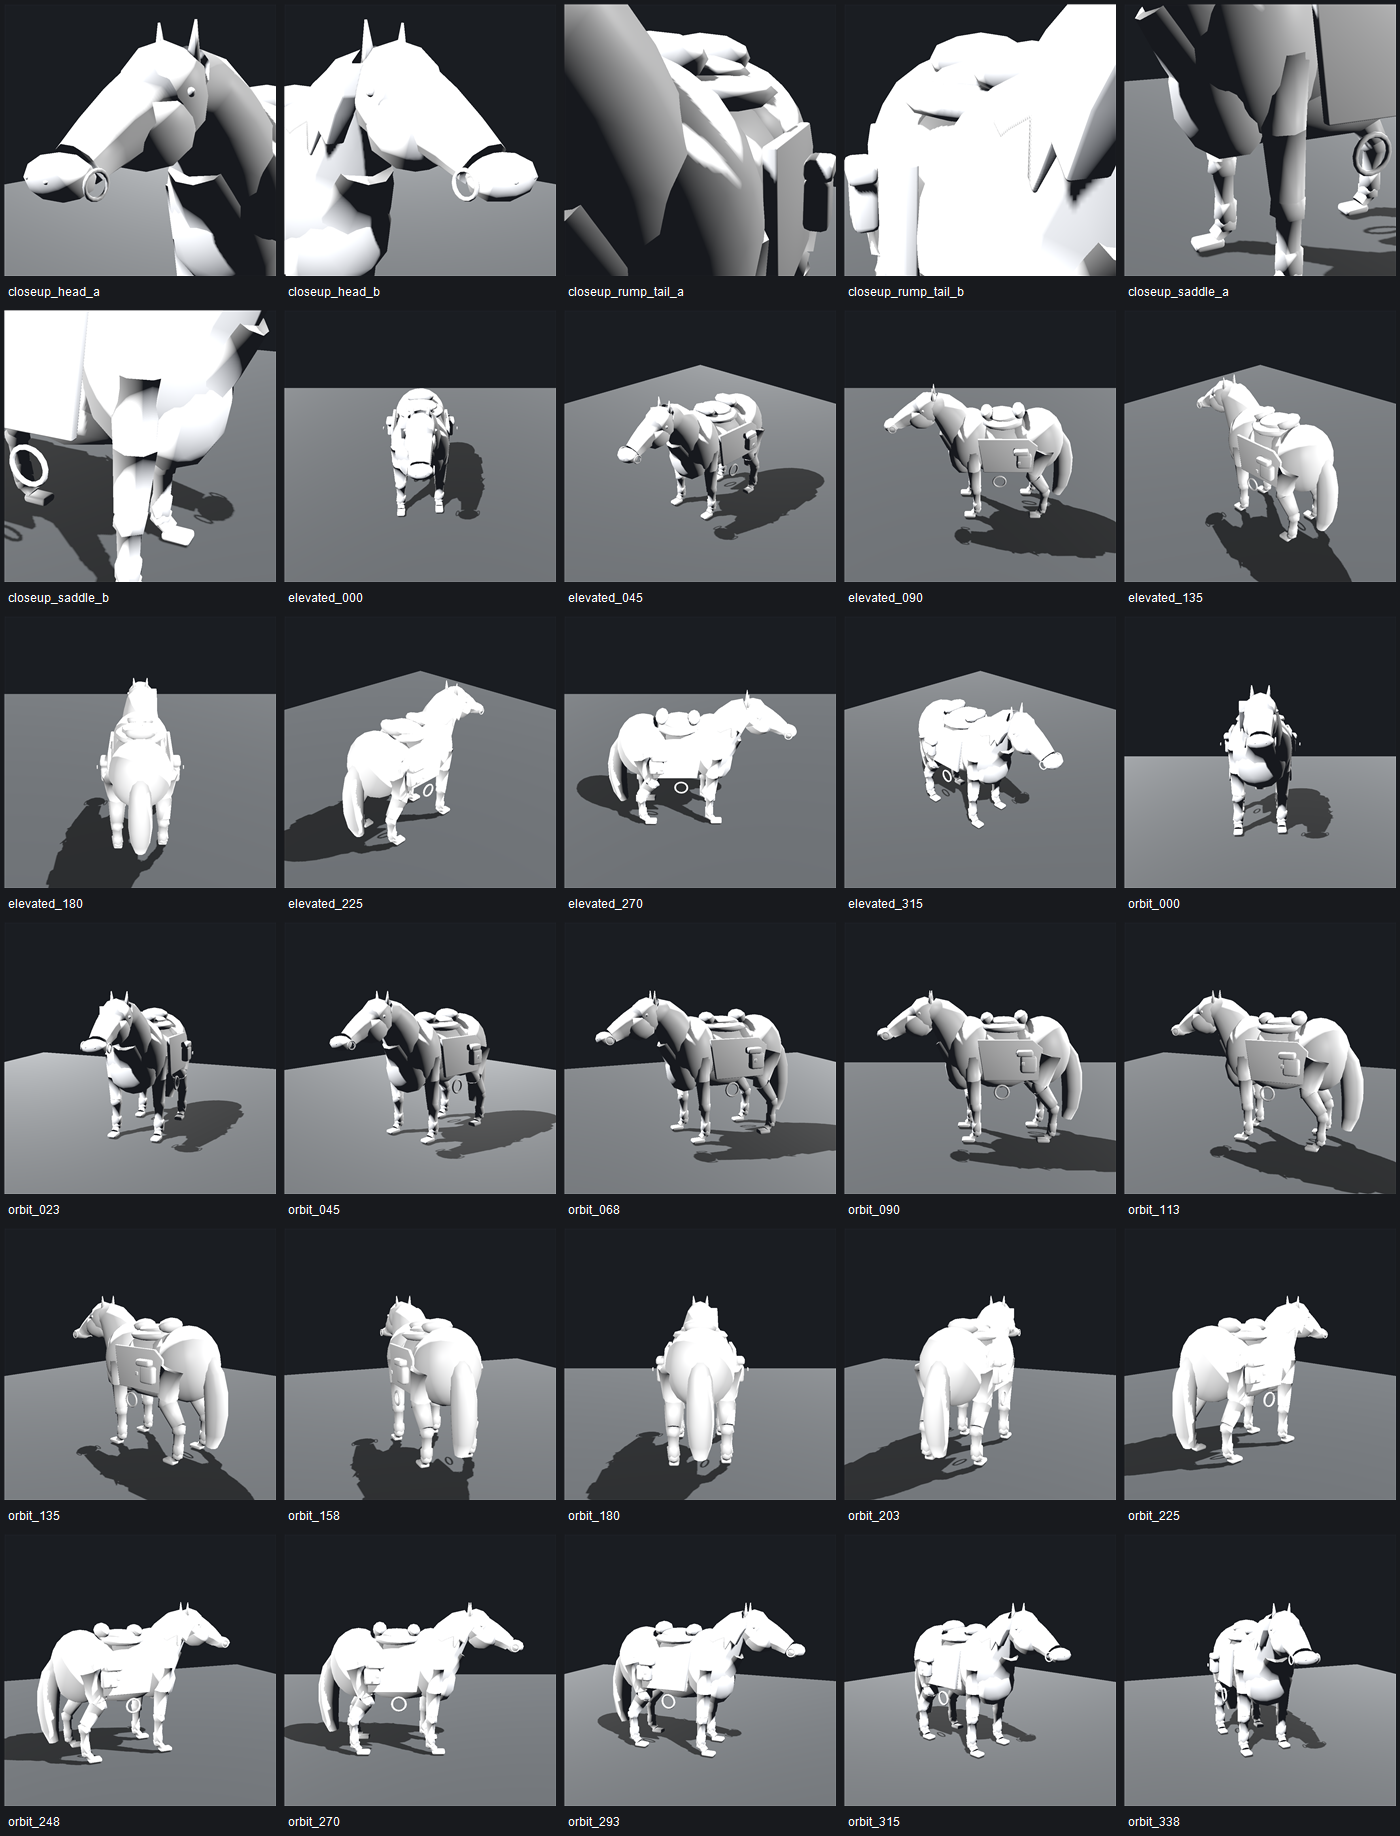
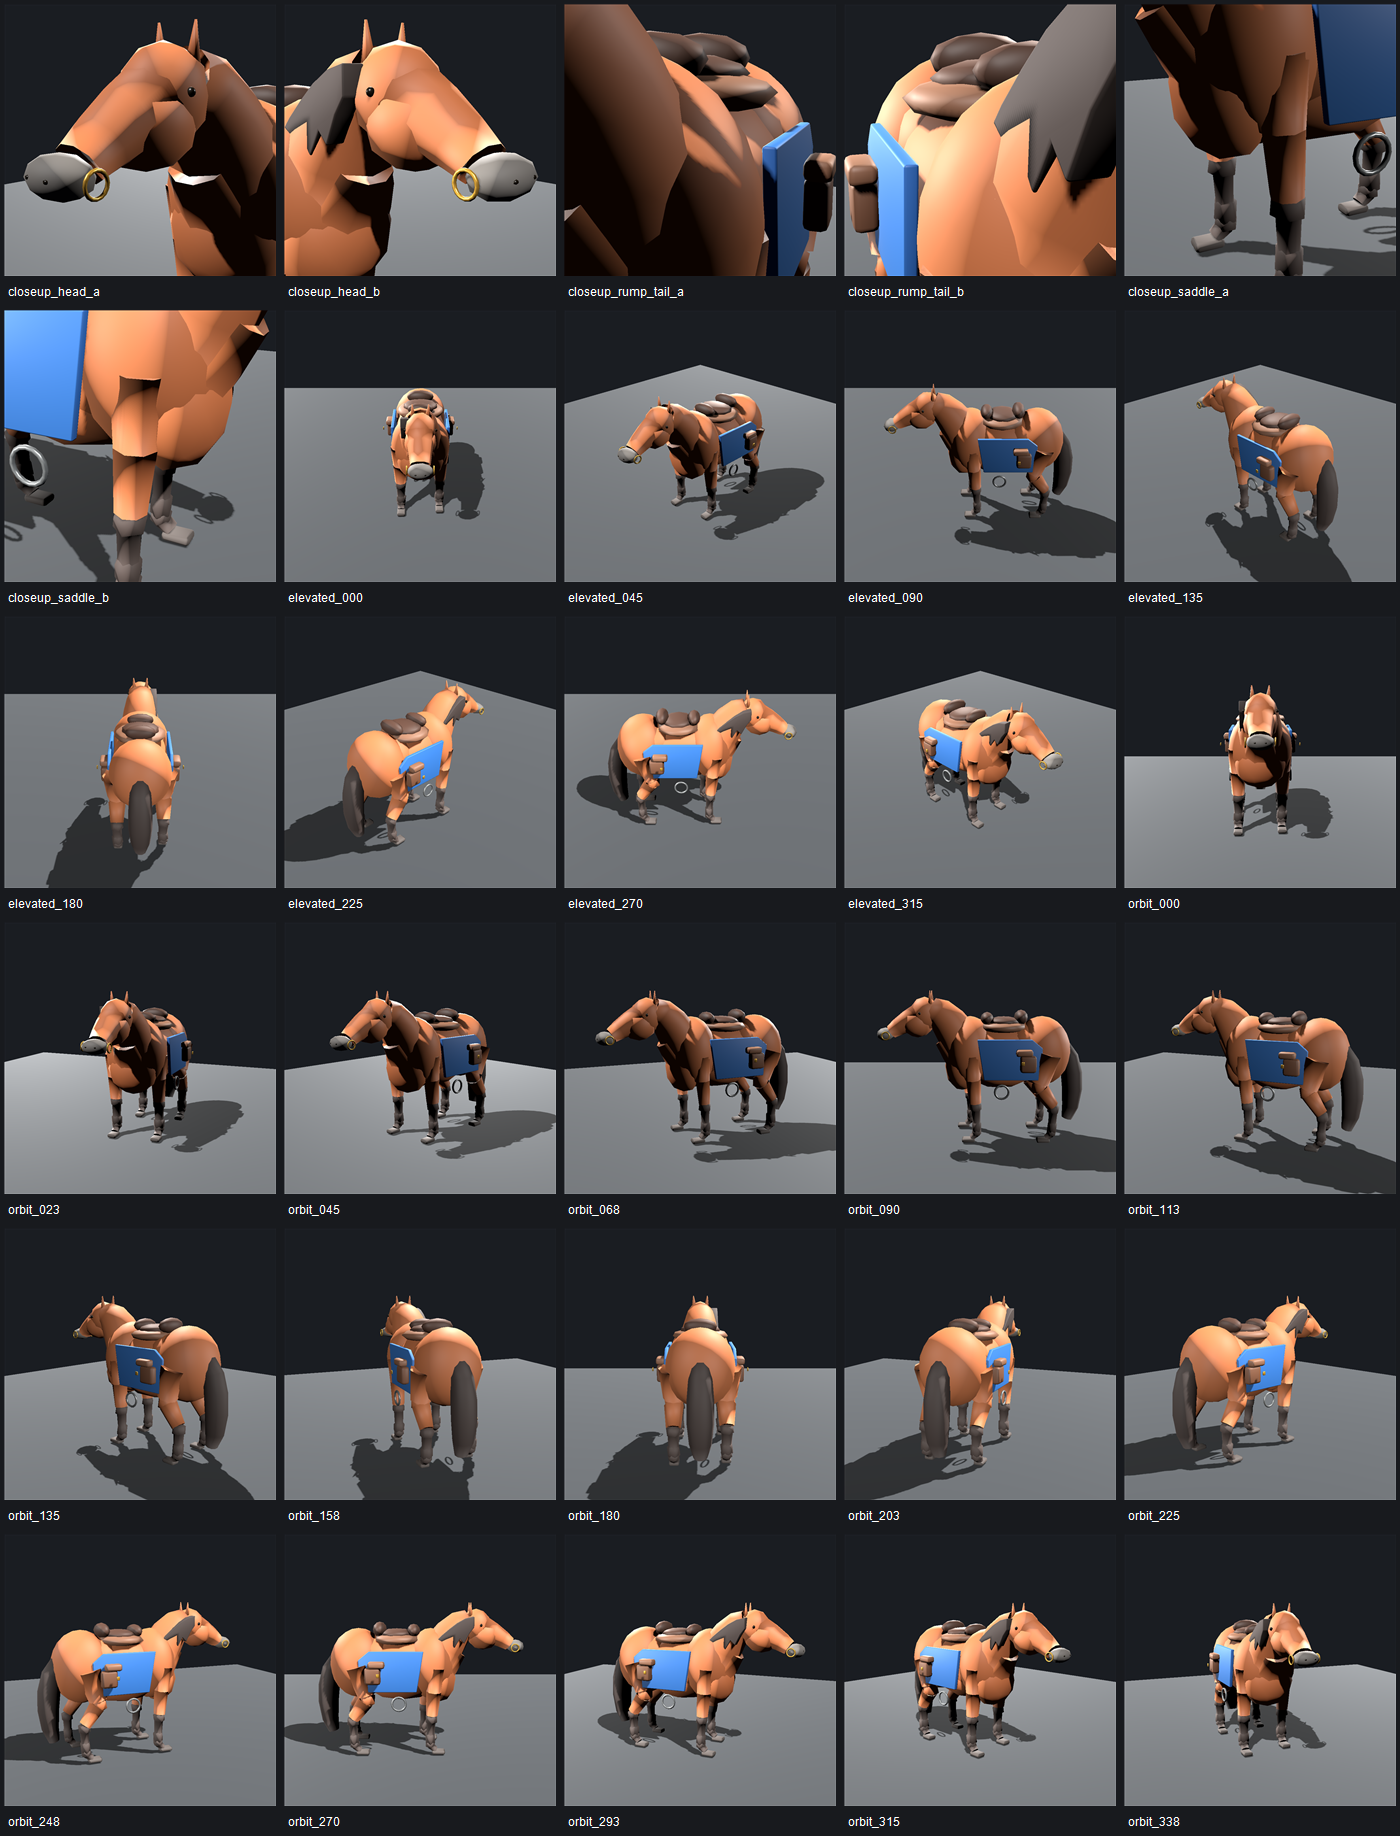
1

diff --git a/blender/world/scripts/build_riverwatch_stable_and_horse.py b/blender/world/scripts/build_riverwatch_stable_and_horse.py
@@ -94515,9 +94515,76 @@ def build_horse_model(arm):
                 name
             )
 
+        # ====================================================
+        # V66.1
+        #
+        # glTF exports Principled BSDF material values.
+        #
+        # Setting only material.diffuse_color made the V66
+        # model arrive in Godot essentially white.
+        # ====================================================
+
+        material.use_nodes = True
+
+        nodes = material.node_tree.nodes
+
+        principled = nodes.get(
+            "Principled BSDF"
+        )
+
+        if principled is None:
+
+            for node in nodes:
+
+                if node.type == "BSDF_PRINCIPLED":
+                    principled = node
+                    break
+
+        if principled is None:
+
+            principled = nodes.new(
+                "ShaderNodeBsdfPrincipled"
+            )
+
+        base_color_input = principled.inputs.get(
+            "Base Color"
+        )
+
+        if base_color_input is not None:
+
+            base_color_input.default_value = color
+
+        roughness_input = principled.inputs.get(
+            "Roughness"
+        )
+
+        if roughness_input is not None:
+
+            roughness_input.default_value = roughness
+
+        metallic_input = principled.inputs.get(
+            "Metallic"
+        )
+
+        if metallic_input is not None:
+
+            metallic_input.default_value = metallic
+
+        alpha_input = principled.inputs.get(
+            "Alpha"
+        )
+
+        if alpha_input is not None:
+
+            alpha_input.default_value = color[3]
+
         material.diffuse_color = color
         material.roughness = roughness
         material.metallic = metallic
+
+        material[
+            "broken_knight_material_export"
+        ] = "principled_gltf_material_fix_v66_1"
 
         return material
 
